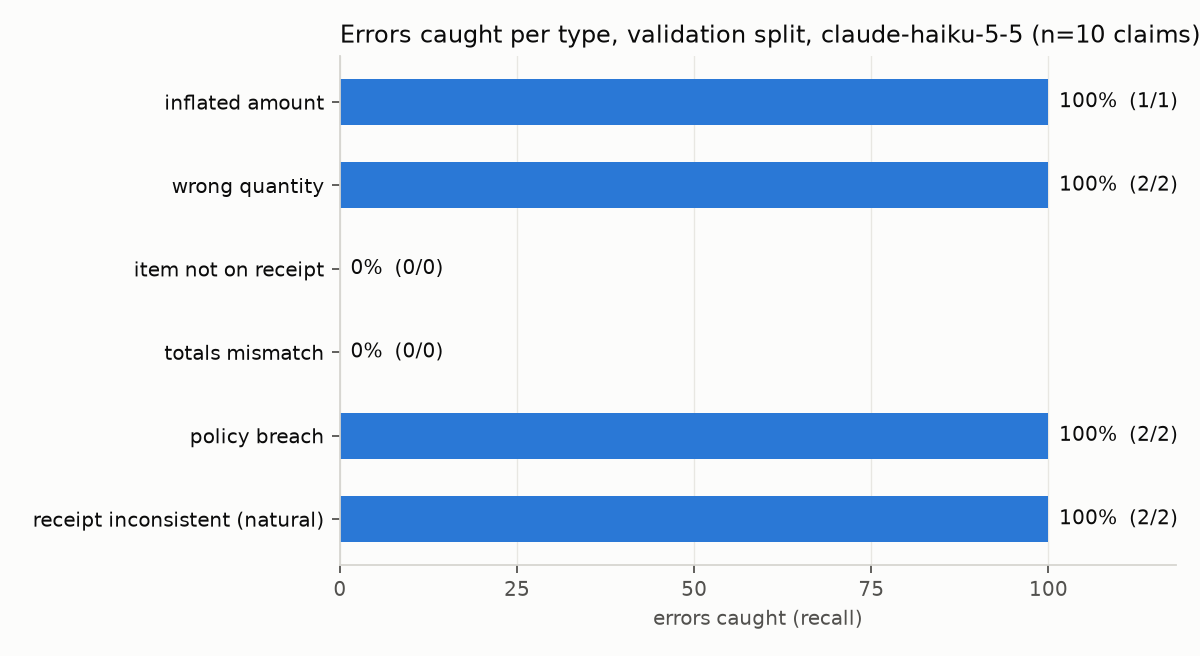
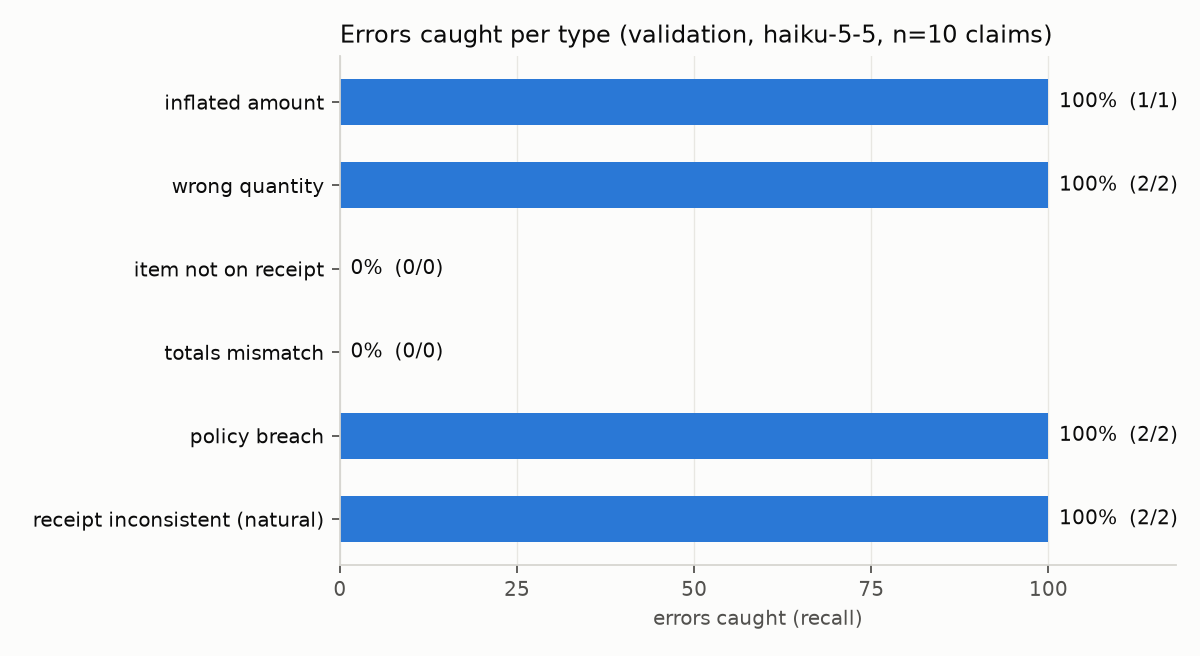
Phase 6 (part 1): Streamlit demo app with samples, evidence view, trace and daily cap; Phase 5 methodology notes

Changed region(s): [[0.5242, 0.0305, 1.0, 0.0915]]

diff --git a/app/streamlit_app.py b/app/streamlit_app.py
@@ -1,0 +1,199 @@
+"""Receipted demo. Run locally:  .venv/bin/streamlit run app/streamlit_app.py
+
+Upload a receipt (or pick a sample), enter the claim, and see the extracted table, every issue with
+its evidence, the decision, the draft message and a trace with timings and cost.
+"""
+
+import datetime as dt
+import json
+import os
+import sys
+import tempfile
+from pathlib import Path
+
+import streamlit as st
+
+ROOT = Path(__file__).resolve().parents[1]
+sys.path.insert(0, str(ROOT / "src"))  # so the app runs on Streamlit Cloud without `pip install -e .`
+
+# On Streamlit Cloud the key lives in st.secrets; locally it comes from .env (loaded by receipted.llm).
+try:
+    if "ANTHROPIC_API_KEY" in st.secrets:
+        os.environ["ANTHROPIC_API_KEY"] = st.secrets["ANTHROPIC_API_KEY"]
+except Exception:  # no secrets file locally: receipted.llm falls back to .env
+    pass
+
+from receipted import llm                       # noqa: E402
+from receipted.graph import run_claim           # noqa: E402
+
+DAILY_CAP = 30                                  # uncached checks per day, so strangers can't run up the bill
+USAGE_FILE = ROOT / "data" / "usage.json"
+SAMPLES = {
+    "Bakery, 3 items, clean claim": ("data/images/validation/validation_000.png", 45500,
+                                     "Snacks for orientation booth, 5 people",
+                                     "Real Ganache, 1, 16500\nEgg Tart, 1, 13000\nPizza Toast, 1, 16000"),
+    "Restaurant, inflated claim + beer not on receipt": ("data/images/validation/validation_025.png", 250000,
+                                                        "Committee dinner, 4 people",
+                                                        "Sop Sui Jiao, 1, 33000\nHa Kaou Udang, 1, 28000\nSiomay Kombinasi, 2, 46000\nBir Bintang, 2, 70000"),
+    "Cafe, hot tea above price list": ("data/images/validation/validation_045.png", 287760,
+                                       "Refreshments for committee meeting, 6 people", ""),
+    "Cinema ticket, no purpose stated": ("data/images/validation/validation_090.png", 70000, "", "Regular, 2, 70000"),
+    "Fast food, claim matches": ("data/images/validation/validation_004.png", 41000, "Lunch for volunteers, 1 person",
+                                 "BBQ Chicken, 1, 41000"),
+}
+BADGE = {"approve": ("APPROVE", "#0ca30c"), "needs_review": ("NEEDS REVIEW", "#fab219"), "reject": ("REJECT", "#d03b3b")}
+
+
+def usage_today():
+    try:
+        u = json.loads(USAGE_FILE.read_text())
+        if u.get("date") == str(dt.date.today()):
+            return u["count"]
+    except (OSError, ValueError):
+        pass
+    return 0
+
+
+def record_usage():
+    USAGE_FILE.parent.mkdir(parents=True, exist_ok=True)
+    USAGE_FILE.write_text(json.dumps({"date": str(dt.date.today()), "count": usage_today() + 1}))
+
+
+def parse_items(text):
+    items = []
+    for line in text.strip().splitlines():
+        parts = [p.strip() for p in line.split(",")]
+        if not parts or not parts[0]:
+            continue
+        item = {"name": parts[0], "qty": 1, "line_total": None}
+        if len(parts) > 1 and parts[1]:
+            item["qty"] = int(float(parts[1])) if float(parts[1]).is_integer() else float(parts[1])
+        if len(parts) > 2 and parts[2]:
+            item["line_total"] = int(float(parts[2])) if float(parts[2]).is_integer() else float(parts[2])
+        items.append(item)
+    return items
+
+
+st.set_page_config(page_title="Receipted", page_icon="🧾", layout="wide")
+st.title("Receipted")
+st.caption("Reads a receipt image, checks it against a claim, a price list and a policy, and flags problems only with evidence.")
+
+tab_check, tab_how = st.tabs(["Check a claim", "How it works"])
+
+with tab_check:
+    left, right = st.columns([1, 1.4])
+    with left:
+        st.subheader("1. Receipt")
+        sample = st.selectbox("Pick a sample receipt", ["(upload my own)"] + list(SAMPLES))
+        upload = st.file_uploader("…or upload a photo", type=["png", "jpg", "jpeg"])
+        if sample != "(upload my own)":
+            s_path, s_amount, s_purpose, s_items = SAMPLES[sample]
+            image_path = ROOT / s_path
+        else:
+            s_amount, s_purpose, s_items = 0, "", ""
+            image_path = None
+            if upload is not None:
+                tmp = tempfile.NamedTemporaryFile(delete=False, suffix=Path(upload.name).suffix)
+                tmp.write(upload.getvalue()); tmp.close()
+                image_path = Path(tmp.name)
+        if image_path is not None:
+            st.image(str(image_path), width=320)
+
+        st.subheader("2. Claim")
+        submitter = st.text_input("Submitter", "A. Member")
+        purpose = st.text_input("Purpose (e.g. 'Team lunch, 4 people')", s_purpose)
+        amount = st.number_input("Amount claimed (IDR)", min_value=0, value=int(s_amount), step=500)
+        items_text = st.text_area("Items claimed, one per line: name, qty, line total", s_items, height=120)
+        model = st.selectbox("Model", [llm.DEFAULT_MODEL, llm.LARGE_MODEL])
+        run = st.button("Check this claim", type="primary", disabled=image_path is None)
+
+    with right:
+        if run:
+            if usage_today() >= DAILY_CAP:
+                st.error(f"Daily limit of {DAILY_CAP} checks reached. Try again tomorrow.")
+                st.stop()
+            claim = {"claim_id": "DEMO", "submitter": submitter, "purpose": purpose, "amount": int(amount),
+                     "currency": "IDR", "items": parse_items(items_text)}
+            with st.spinner("Reading the receipt and running the checks…"):
+                state = run_claim(image_path, claim, model=model)
+            if not all(e.get("cached") for e in state["trace"] if "cost_usd" in e):
+                record_usage()
+
+            label, colour = BADGE[state["decision"]]
+            st.markdown(f"<span style='background:{colour};color:white;padding:6px 14px;border-radius:6px;"
+                        f"font-weight:700;font-size:1.1em'>{label}</span> &nbsp; {state['decision_reason']}",
+                        unsafe_allow_html=True)
+
+            receipt = state.get("receipt")
+            st.subheader("Extracted from the receipt")
+            if receipt:
+                st.dataframe([{"qty": i["qty"], "item": i["name"], "unit price": i["unit_price"],
+                               "line total": i["line_total"], "as printed": i["raw_line"]} for i in receipt["items"]],
+                             use_container_width=True, hide_index=True)
+                st.caption(f"subtotal {receipt['subtotal']} · tax {receipt['tax']} · service {receipt['service']} · "
+                           f"discount {receipt['discount']} · **total {receipt['total']}** · readability: {receipt['readability']}")
+            else:
+                st.warning(f"Extraction failed: {state.get('error')}")
+
+            issues = state["verified_issues"]
+            st.subheader(f"Issues ({len(issues)} verified, {len(state['dropped_issues'])} dropped by the verifier)")
+            if not issues:
+                st.success("No issues with evidence were found.")
+            for i in issues:
+                sev_colour = {"high": "#d03b3b", "medium": "#fab219", "low": "#52514e"}[i["severity"]]
+                with st.container(border=True):
+                    st.markdown(f"<span style='color:{sev_colour};font-weight:700'>{i['severity'].upper()}</span> "
+                                f"**{i['type'].replace('_', ' ')}** · found by {i['source']}", unsafe_allow_html=True)
+                    st.write(i["message"])
+                    if i.get("receipt_line"):
+                        st.code(i["receipt_line"], language=None)
+                    ev = i.get("evidence") or {}
+                    if ev.get("clause_text"):
+                        st.info(ev["clause_text"])
+                    numbers = {k: v for k, v in ev.items() if k != "clause_text"}
+                    if numbers:
+                        st.caption("evidence: " + ", ".join(f"{k}={v}" for k, v in numbers.items()))
+            for d in state["dropped_issues"]:
+                st.caption(f"Dropped by verifier: {d['type']} ({d['clause_id'] or d['price_item']}) — {d['dropped_because']}")
+
+            st.subheader("Draft message to the submitter")
+            st.text_area("draft", state["draft"], height=220, label_visibility="collapsed")
+
+            with st.expander(f"Trace: {state['total_seconds']}s, ${state['total_cost_usd']:.4f} ({state['model']})"):
+                st.dataframe([{"node": e["node"], "seconds": e["seconds"], "tokens in": e.get("input_tokens"),
+                               "tokens out": e.get("output_tokens"), "cost $": e.get("cost_usd"),
+                               "cached": e.get("cached"), "summary": e["summary"]} for e in state["trace"]],
+                             use_container_width=True, hide_index=True)
+        else:
+            st.info("Pick a sample or upload a receipt, fill in the claim, and press **Check this claim**.")
+
+with tab_how:
+    st.graphviz_chart("""
+    digraph G {
+      rankdir=LR; node [shape=box, style="rounded,filled", fillcolor="#eef3fb", fontname="Helvetica", fontsize=11];
+      extract [label="extract\\nmultimodal LLM → JSON schema"];
+      maths [label="maths_check\\nPython arithmetic + claim matching"];
+      retrieve [label="retrieve\\nChroma: policy clauses + price rows"];
+      rules [label="rule_check\\nLLM, must cite clause + receipt line"];
+      verify [label="verify\\nPython drops issues without real evidence"];
+      decide [label="decide\\napprove / needs_review / reject"];
+      draft [label="draft\\nmessage to submitter"];
+      extract -> maths -> retrieve -> rules -> verify -> decide -> draft;
+      extract -> decide [label="unreadable or\\nfailed validation", style=dashed];
+    }""")
+    st.markdown("""
+**Each job goes to the right tool.** The image model reads the messy photo. Plain Python does the arithmetic,
+because language models are unreliable at maths and code is exact. A vector store finds the policy clauses and
+price-list rows that matter. The rule-check model may raise an issue only if it cites a clause *and* a receipt line.
+
+**Every flag needs evidence.** The verifier, in plain Python, throws away any issue whose clause id does not exist
+in the policy, whose receipt line is not in the extraction, or whose price comparison does not hold when re-done in code.
+
+**It knows when to pass to a human.** If the receipt is unreadable, or the extraction fails validation twice, the
+checks are skipped and the claim goes straight to *needs review* instead of being guessed at.
+
+**It is measured.** Extraction is scored against CORD ground truth; the checks are scored on 100 synthetic claims
+with planted errors; the drafts are scored by a larger model against a written rubric. See the README for numbers.
+
+*Data: CORD v2 (CC BY 4.0). The claims, price list and policy are synthetic test fixtures.*
+""")

diff --git a/src/receipted/extract.py b/src/receipted/extract.py
@@ -52,6 +52,18 @@ class ExtractionResult:
     cached: bool
 
 
+def tidy(receipt: dict) -> dict:
+    """Rupiah has no cents: show 16500, not 16500.0. Applied to fresh and cached results alike."""
+    def fix(v):
+        return int(v) if isinstance(v, float) and v.is_integer() else v
+    for it in receipt["items"]:
+        for k in ("qty", "unit_price", "line_total"):
+            it[k] = fix(it.get(k))
+    for k in ("subtotal", "tax", "service", "discount", "total"):
+        receipt[k] = fix(receipt.get(k))
+    return receipt
+
+
 def prepare_image(path: str | Path) -> tuple[bytes, str]:
     """Resize to the model's limit and JPEG-encode. Returns (bytes, media_type)."""
     img = Image.open(path).convert("RGB")
@@ -83,6 +95,7 @@ def extract(image_path: str | Path, model: str = llm.DEFAULT_MODEL, use_cache: b
     if use_cache:
         hit = llm.cache_get("extract", key)
         if hit:
+            hit["receipt"] = tidy(hit["receipt"])
             return ExtractionResult(**{**hit, "cached": True})
 
     image_b64 = base64.standard_b64encode(image_bytes).decode()
@@ -109,7 +122,7 @@ def extract(image_path: str | Path, model: str = llm.DEFAULT_MODEL, use_cache: b
             nudge = "Reply with valid JSON matching the schema only."
             continue
         result = ExtractionResult(
-            receipt=receipt.model_dump(),
+            receipt=tidy(receipt.model_dump()),
             model=model,
             prompt_version=PROMPT_VERSION,
             input_tokens=total_in,

diff --git a/eval/report.py b/eval/report.py
@@ -56,7 +56,7 @@ def chart_recall(checks, split):
     ax.set_yticks(list(y)); ax.set_yticklabels(labels, color=INK)
     ax.set_xlim(0, 118); ax.set_xticks([0, 25, 50, 75, 100])
     ax.set_xlabel("errors caught (recall)", color=INK2, fontsize=9)
-    ax.set_title(f"Errors caught per type, {split} split, {s['model']} (n={s['n_claims']} claims)", loc="left", fontsize=11, color=INK)
+    ax.set_title(f"Errors caught per type ({split}, {s['model'].replace('claude-', '')}, n={s['n_claims']} claims)", loc="left", fontsize=11, color=INK)
     fig.tight_layout()
     fig.savefig(RES / f"chart_recall_{split}.png", dpi=160)
     plt.close(fig)

diff --git a/LEARNING.md b/LEARNING.md
@@ -92,3 +92,19 @@
 - *What does the draft model know that the user doesn't?* Nothing. It only receives the verified issues with their evidence and the decision, and is told to add no facts. The LLM-as-judge in Phase 5 scores whether it stayed within that.
 
 **Trade-off.** The maths check and the rule check can report the same problem twice, once with numbers and once with the clause. Rather than merge them with fragile matching code, the decision uses the maximum severity (so duplicates change nothing) and the draft prompt is told to present each distinct problem once. Simple, and the duplication stays visible in the trace for debugging.
+
+## Phase 5: Evaluation
+
+**What we built.** `eval/make_claims.py` (synthetic claims with planted errors and labels, fixed seed), `eval/eval_extraction.py` (extraction vs ground truth, per model), `eval/eval_checks.py` (the full agent on every claim, scored against the labels), `eval/eval_drafts.py` (LLM-as-judge with a written rubric, plus a sheet for human scoring and an agreement calculation), `eval/report.py` (metrics.json, results table, charts, failure fact sheet). All numbers in the README come from `results/`.
+
+**How the claims were made, and what "caught" means.** Half the test claims are clean copies of the ground truth. Each of the rest gets exactly one planted error: inflated amount, wrong quantity, an extra item that is not on the receipt, claim lines that don't sum to the claimed amount, or a policy breach written into the claim (a meal for "1 person" above the per-person cap, or no purpose stated). Two breaches live in the receipt image, not the claim, so they can't be planted: a price above the agreed list and alcohol on the receipt. Those are labelled from ground truth wherever they occur naturally. Receipts whose own ground truth doesn't add up are labelled too, so a maths flag there counts as correct. An error is "caught" when a verified issue of the matching kind exists, not merely when the decision isn't approve. A false alarm is a clean claim with no natural breach that gets a verified issue. Clean claims held only because the model said the image was partly unclear are counted separately, because that is the human-review route working as designed, not a wrong flag.
+
+**Why validation for tuning and test for the final number.** Every prompt change (two extraction prompt versions, three rule-check prompt versions, the judge's fact list) was made on 10 validation receipts. The test split was run once, after the prompts were frozen. If you tune on the data you report, the number measures how well you fit those 100 receipts, not how the system would do on the next 100.
+
+**LLM-as-judge, and why a rubric and a human check.** A larger model (Opus 5.5) scores each Haiku-written draft 1 to 5 on accuracy, evidence, clarity and tone, using a written rubric that names what a 5, 3 and 1 look like. The judge is given exactly the facts the writer was given, so "the message mentions the claimed amount" is not an accuracy error. The first judge run scored accuracy 3.0 because it was *not* shown those facts; fixing the judge, not the drafts, took it to 4.9. That is the lesson: a judge is itself a prompt that can be wrong, so 10 drafts are scored by a person and the agreement is reported.
+
+**Likely interview questions.**
+- *How did you measure it, and why not test on the data you tuned on?* Three separate measurements (extraction accuracy, errors caught vs false alarms, draft quality), each with its own ground truth or labels. Tuning used the validation split; the test split was run once at the end.
+- *What is the weakest part of the evaluation?* The claims, price list and policy are synthetic, so the planted errors are the kinds I thought of. The receipt-side breaches depend on how often they occur in CORD. And the judge is a model: that's why there is a human-agreement number.
+
+**Trade-off.** Reported recall is per error *kind*, so a claim with an inflated amount that is caught as "claim exceeds receipt" counts, but one caught only because the receipt was unclear does not. Stricter than "decision was not approve", and more honest about what the checks actually detect.
